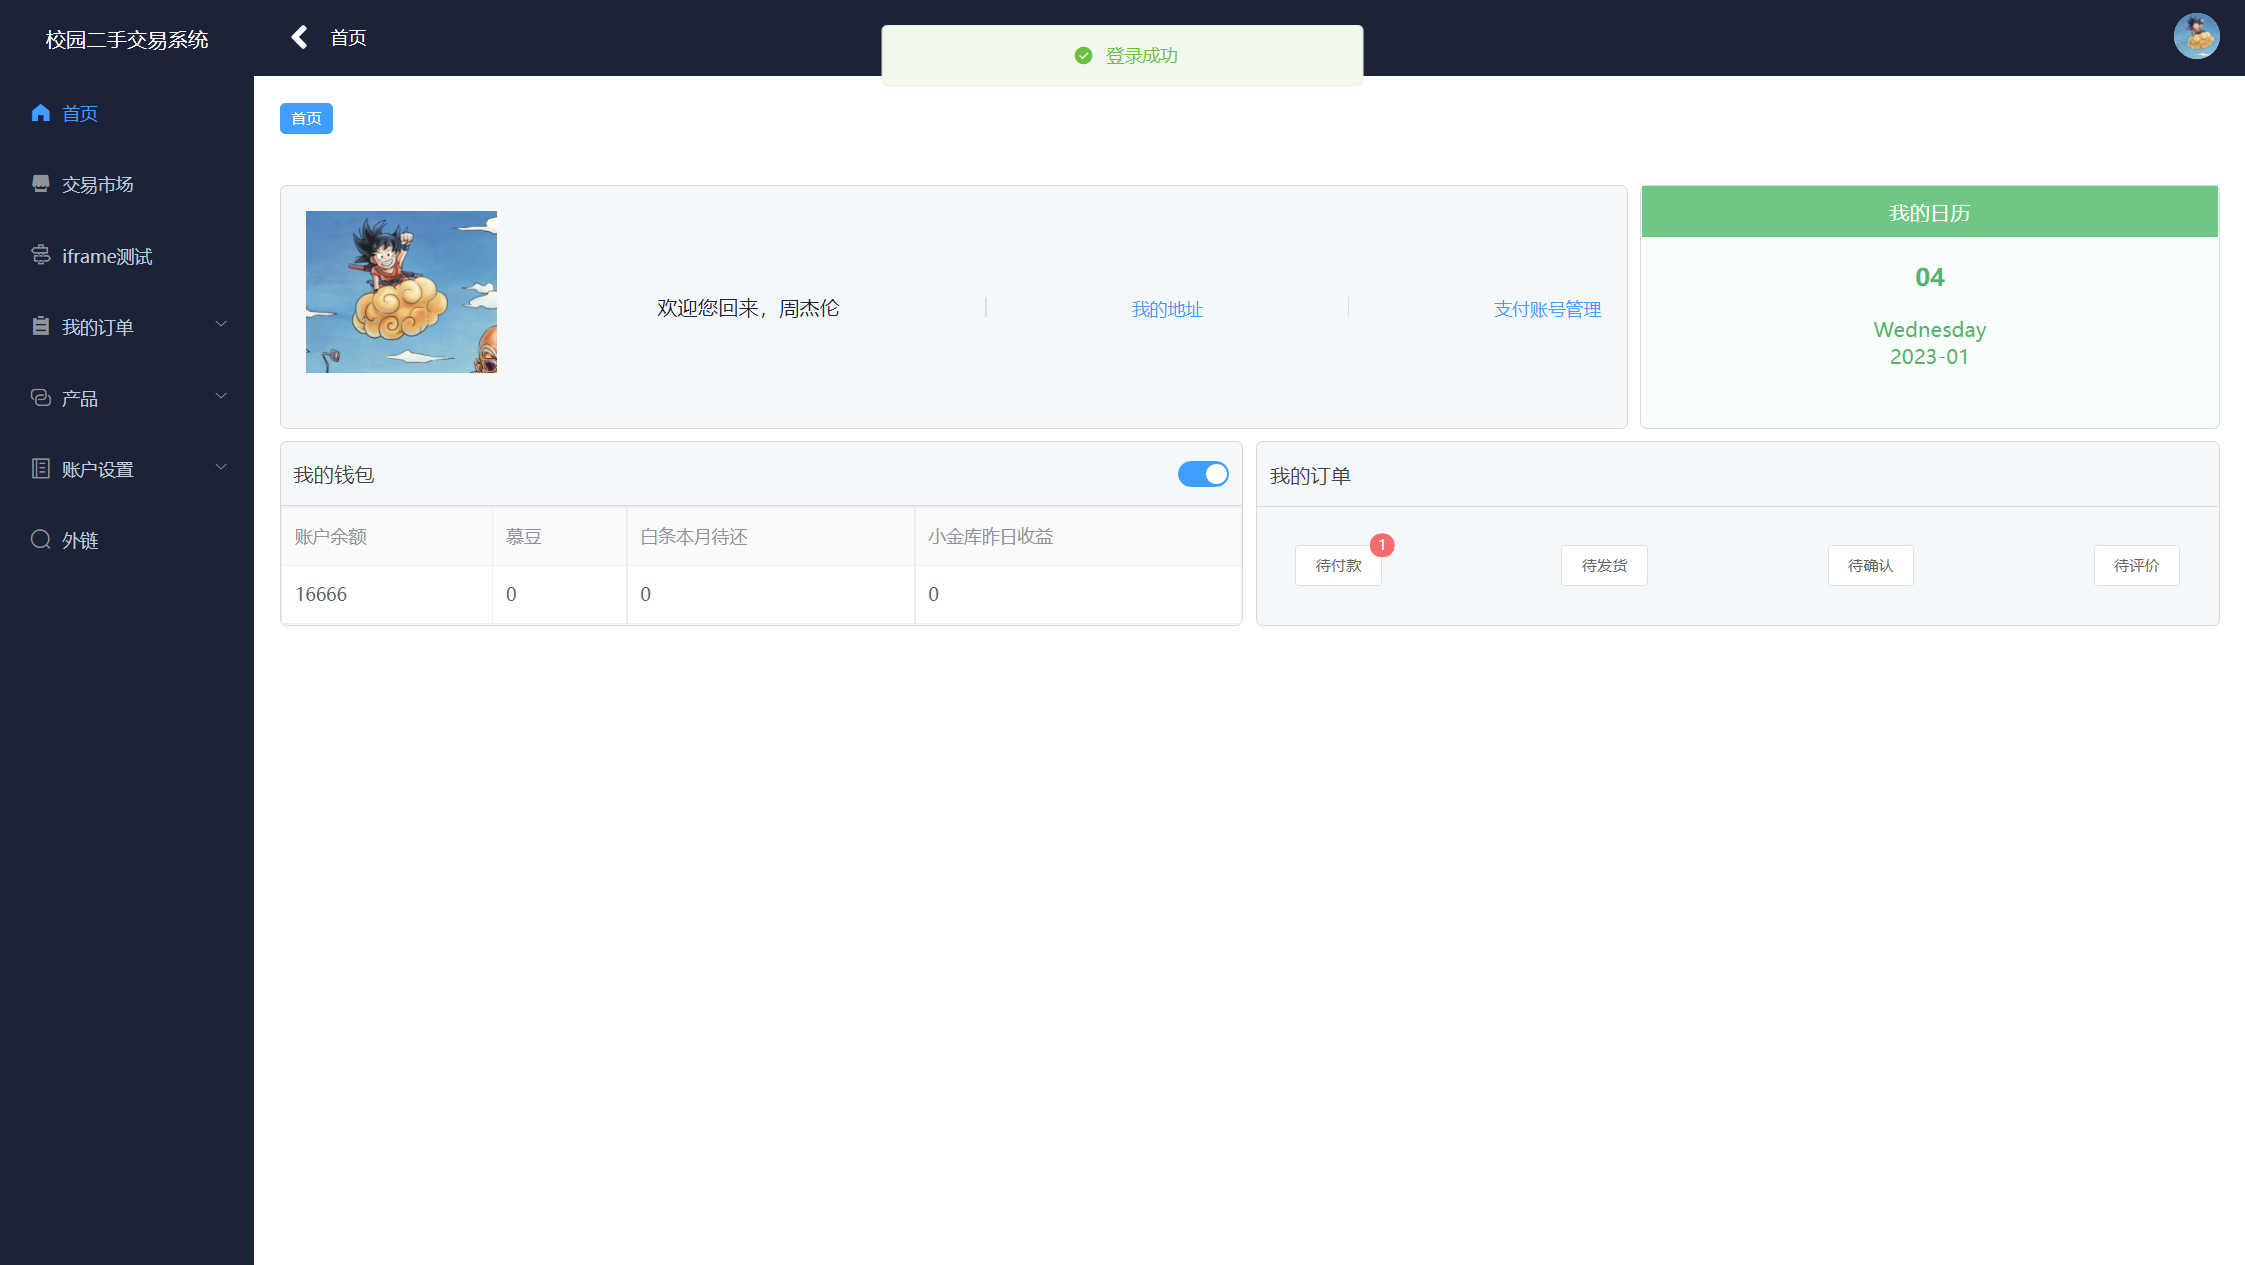
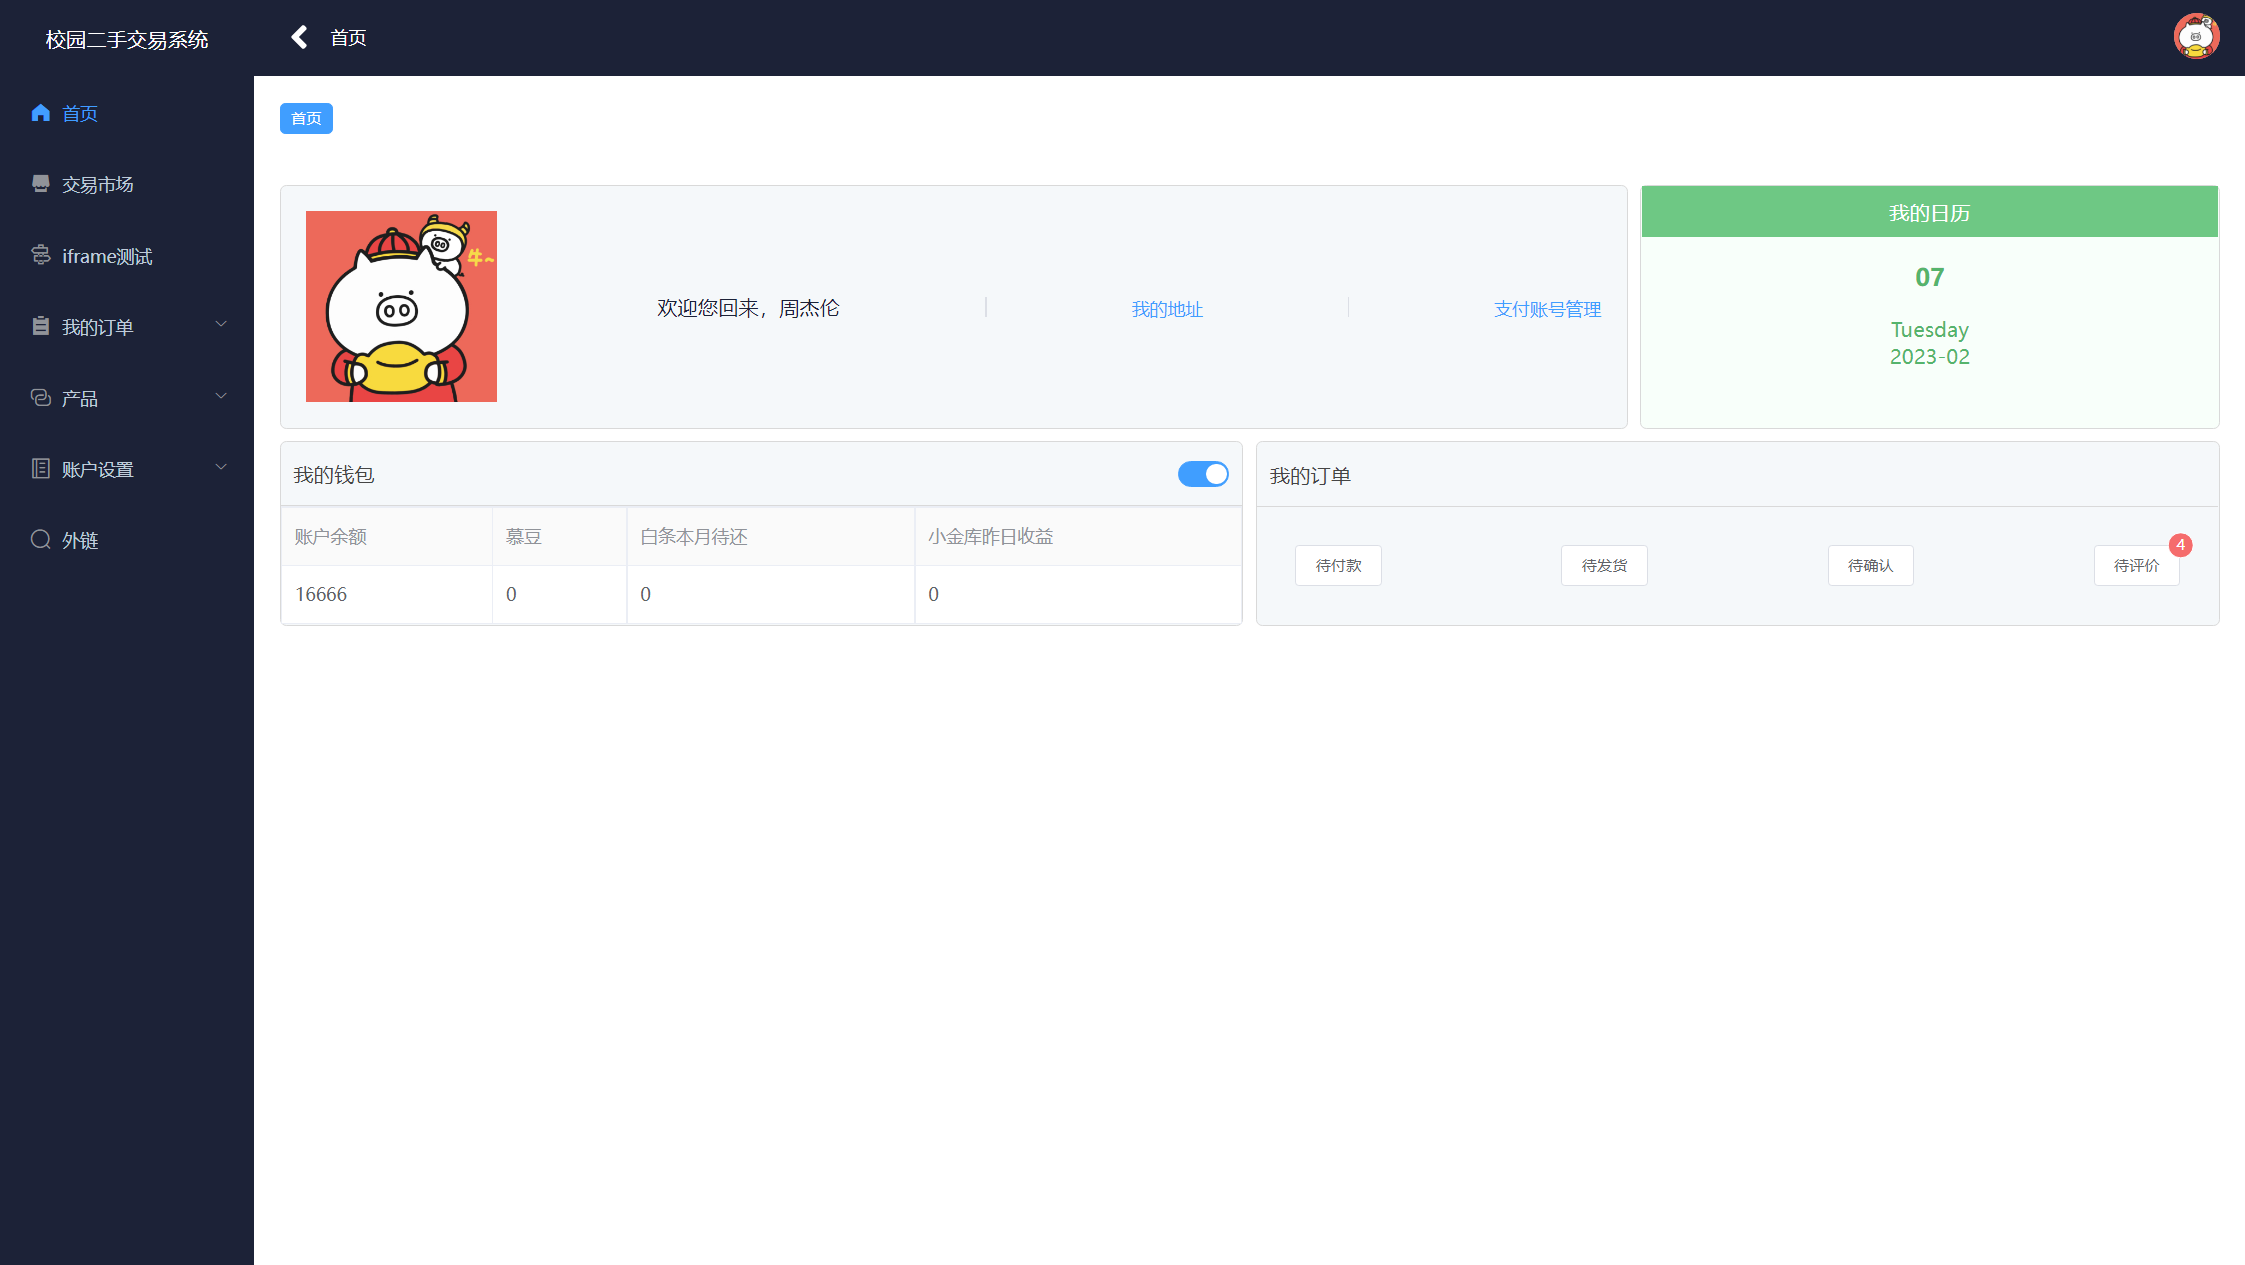
修改测试用例

diff --git a/common/find_img.py b/common/find_img.py
@@ -2,8 +2,9 @@
 # @Author:Henry
 import aircv as ac
 
-from common.tools import get_project_path, sep
-
+from common.tools import get_project_path, sep, get_now_date_time_str
+import cv2
+from common.report_add_img import add_img_path_2_report
 
 class FindImg:
 
@@ -27,10 +28,21 @@ class FindImg:
         img_sch = self.img_imread(search_path)
         result = ac.find_template(img_src, img_sch)
         print(result)
+        # 在原图上根据找到的坐标画框,rectangle可以再图片上绘制一个简单的矩形
+        cv2.rectangle(
+            img_src, result["rectangle"][0], result["rectangle"][3], (255, 0, 0), 2
+        )
+        # 获取到画框图片的路径
+        diff_img_path = get_project_path() + sep(["img", "diff_img", get_now_date_time_str() + "-对比的图.png"],
+                                                 add_sep_before=True)
+        # 保存
+        cv2.imencode(".png", img_src)[1].tofile(diff_img_path)
+        # 加入测试报告
+        add_img_path_2_report(diff_img_path, "查找到的图")
         return result["confidence"]
 
-if __name__ == '__main__':
-    source_path = get_project_path() + sep(["img", "source.png"], add_sep_before=True)
-    search_path = get_project_path() + sep(["img", "search.png"], add_sep_before=True)
 
+if __name__ == '__main__':
+    source_path = get_project_path() + sep(["img", "source_img", "head_img.png"], add_sep_before=True)
+    search_path = get_project_path() + sep(["img", "assert_img", "head_img.png"], add_sep_before=True)
     FindImg().get_confidence(source_path, search_path)

diff --git a/testcases/test_login_img_assert.py b/testcases/test_login_img_assert.py
@@ -3,13 +3,21 @@
 from time import sleep
 import pytest
 from page.LoginPage import LoginPage
+import allure
+from common.report_add_img import add_img_2_report
 
 
 class TestLoginAssert:
 
     @pytest.mark.login
+    @allure.feature("登录")
+    @allure.description("登录后断言图片")
     def test_login_assert(self, driver):
         """登录后断言"""
-        LoginPage().login(driver, "jay")
-        sleep(3)
-        assert LoginPage().login_assert(driver, "head_img.png") > 0.9
+        with allure.step("登录"):
+            LoginPage().login(driver, "jay")
+            sleep(3)
+            add_img_2_report(driver, "登录")
+
+        with allure.step("断言图片"):
+            assert LoginPage().login_assert(driver, "head_img.png") > 0.9

diff --git a/testcases/test_upload_personal_avator.py b/testcases/test_upload_personal_avator.py
@@ -14,7 +14,7 @@ class TestPersonalInfo:
         sleep(1)
         LeftMenuPage().click_level_two_menu(driver, "个人资料")
         sleep(2)
-        AccountPage().upload_avatar(driver, "个人头像一.jpeg")
+        AccountPage().upload_avatar(driver, "个人头像二.jpg")
         sleep(3)
         AccountPage().click_save(driver)
         sleep(3)

diff --git a/page/LoginPage.py b/page/LoginPage.py
@@ -12,6 +12,7 @@ from logs.log import log
 from common.ocr_identify import OcrIdentify
 from common.report_add_img import add_img_path_2_report
 
+
 class LoginPage(LoginBase, ObjectMap):
 
     def login_input_value(self, driver, input_placeholder, input_value):
